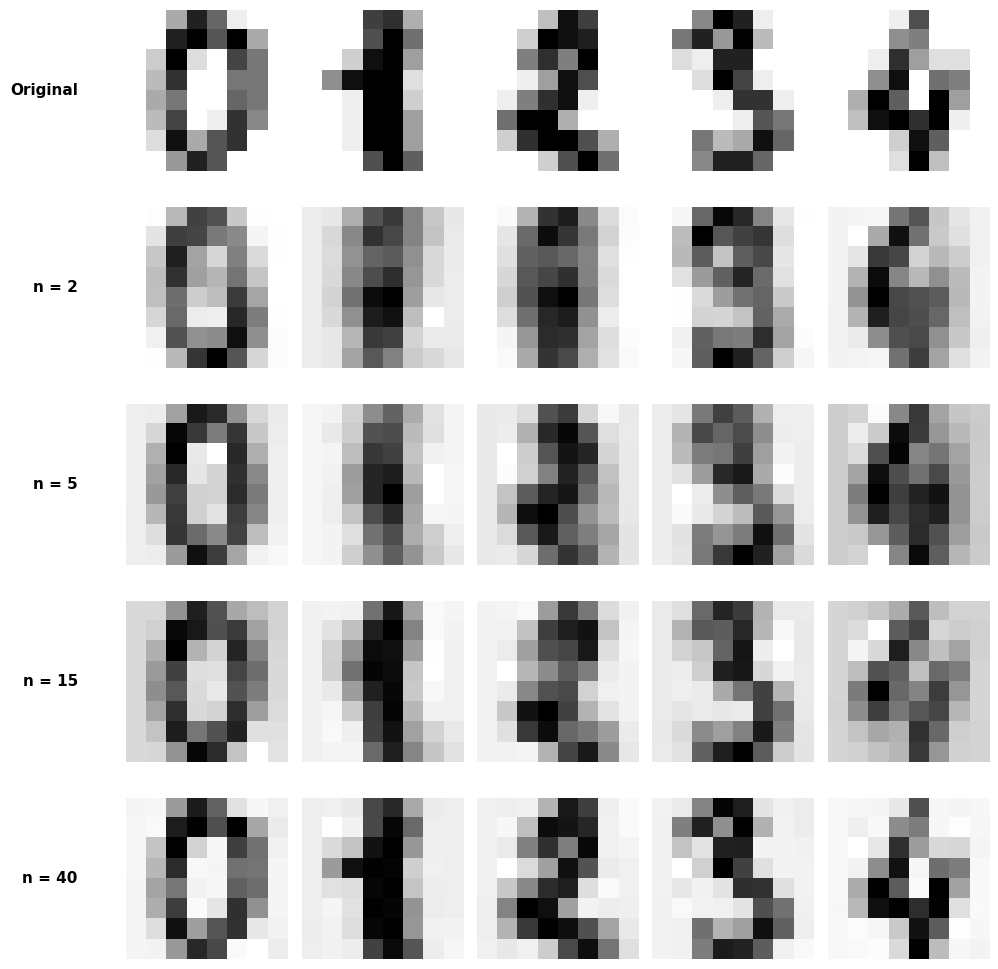
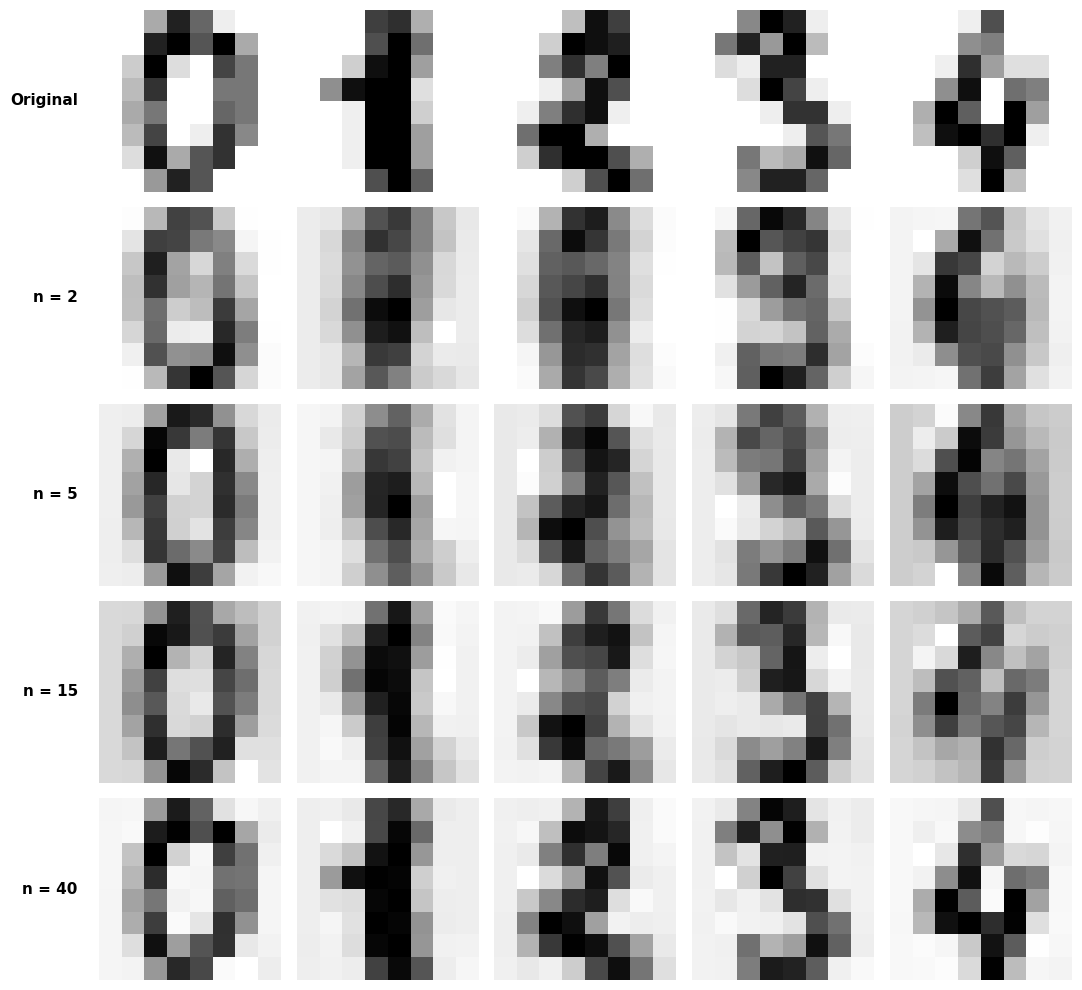
revision 5.1

diff --git a/assignments_03/warmup_03.py b/assignments_03/warmup_03.py
@@ -153,11 +153,14 @@ images   = digits.images  # same data shaped as 8x8 images for plotting
 print(f"X_digits shape: {X_digits.shape}")
 print(f"images shape: {images.shape}")
 
-fig, axes = plt.subplots(1, 10, figsize=(12, 2))
+fig, axes = plt.subplots(1, 10, figsize=(12, 2.5))
+
+fig.suptitle("Sample Digits (0 to 9) from the Digits Dataset", fontsize=12, fontweight="bold", y=1.05)
+
 for i in range(10):
     idx = np.where(y_digits == i)[0][0]
     axes[i].imshow(images[idx], cmap="gray_r")
-    axes[i].set_title(str(i))
+    axes[i].set_title(str(i), fontsize=10)
     axes[i].axis("off")
 
 plt.tight_layout()
@@ -213,35 +216,40 @@ def reconstruct_digit(sample_idx, scores, pca, n_components):
 n_values = [2, 5, 15, 40]
 n_samples = 5
 
-fig, axes = plt.subplots(len(n_values) + 1, n_samples, figsize=(10, 2 * (len(n_values) + 1)))
+fig, axes = plt.subplots(len(n_values) + 1, n_samples, figsize=(11, 2 * (len(n_values) + 1)))
 
 row_labels = ["Original"] + [f"n = {n}" for n in n_values]
 
-# Original images row
+# Plot original images row
 for j in range(n_samples):
-  axes[0, j].imshow(images[j], cmap="gray_r")
-  axes[0, j].axis("off")
+    axes[0, j].imshow(images[j], cmap="gray_r")
 
-# Reconstructions for different n values
+# Plot reconstructions for different n values
 for row_idx, n_comp in enumerate(n_values, start=1):
-  for j in range(n_samples):
-    recon = reconstruct_digit(j, scores, pca, n_comp)
-    axes[row_idx, j].imshow(recon, cmap="gray_r")
-    axes[row_idx, j].axis("off")
+    for j in range(n_samples):
+        recon = reconstruct_digit(j, scores, pca, n_comp)
+        axes[row_idx, j].imshow(recon, cmap="gray_r")
 
-# Add clean row labels on the left of each row
+# Clean up axes (hide ticks and spines cleanly so set_ylabel works)
+for row_idx in range(len(row_labels)):
+    for j in range(n_samples):
+        ax = axes[row_idx, j]
+        ax.set_xticks([])
+        ax.set_yticks([])
+        for spine in ax.spines.values():
+            spine.set_visible(False)
+
+# Add explicit, native row labels using set_ylabel on the first column
 for row_idx, label in enumerate(row_labels):
-  # Position text relative to the first subplot of each row
-  axes[row_idx, 0].text(
-      -0.3,
-      0.5,
-      label,
-      transform=axes[row_idx, 0].transAxes,
-      fontsize=11,
-      fontweight="bold",
-      va="center",
-      ha="right",
-  )
+    axes[row_idx, 0].set_ylabel(
+        label,
+        rotation=0,
+        ha="right",
+        va="center",
+        fontsize=11,
+        fontweight="bold",
+        labelpad=15
+    )
 
 plt.tight_layout()
 plt.savefig(OUTPUT / "pca_reconstructions.png", bbox_inches="tight")
